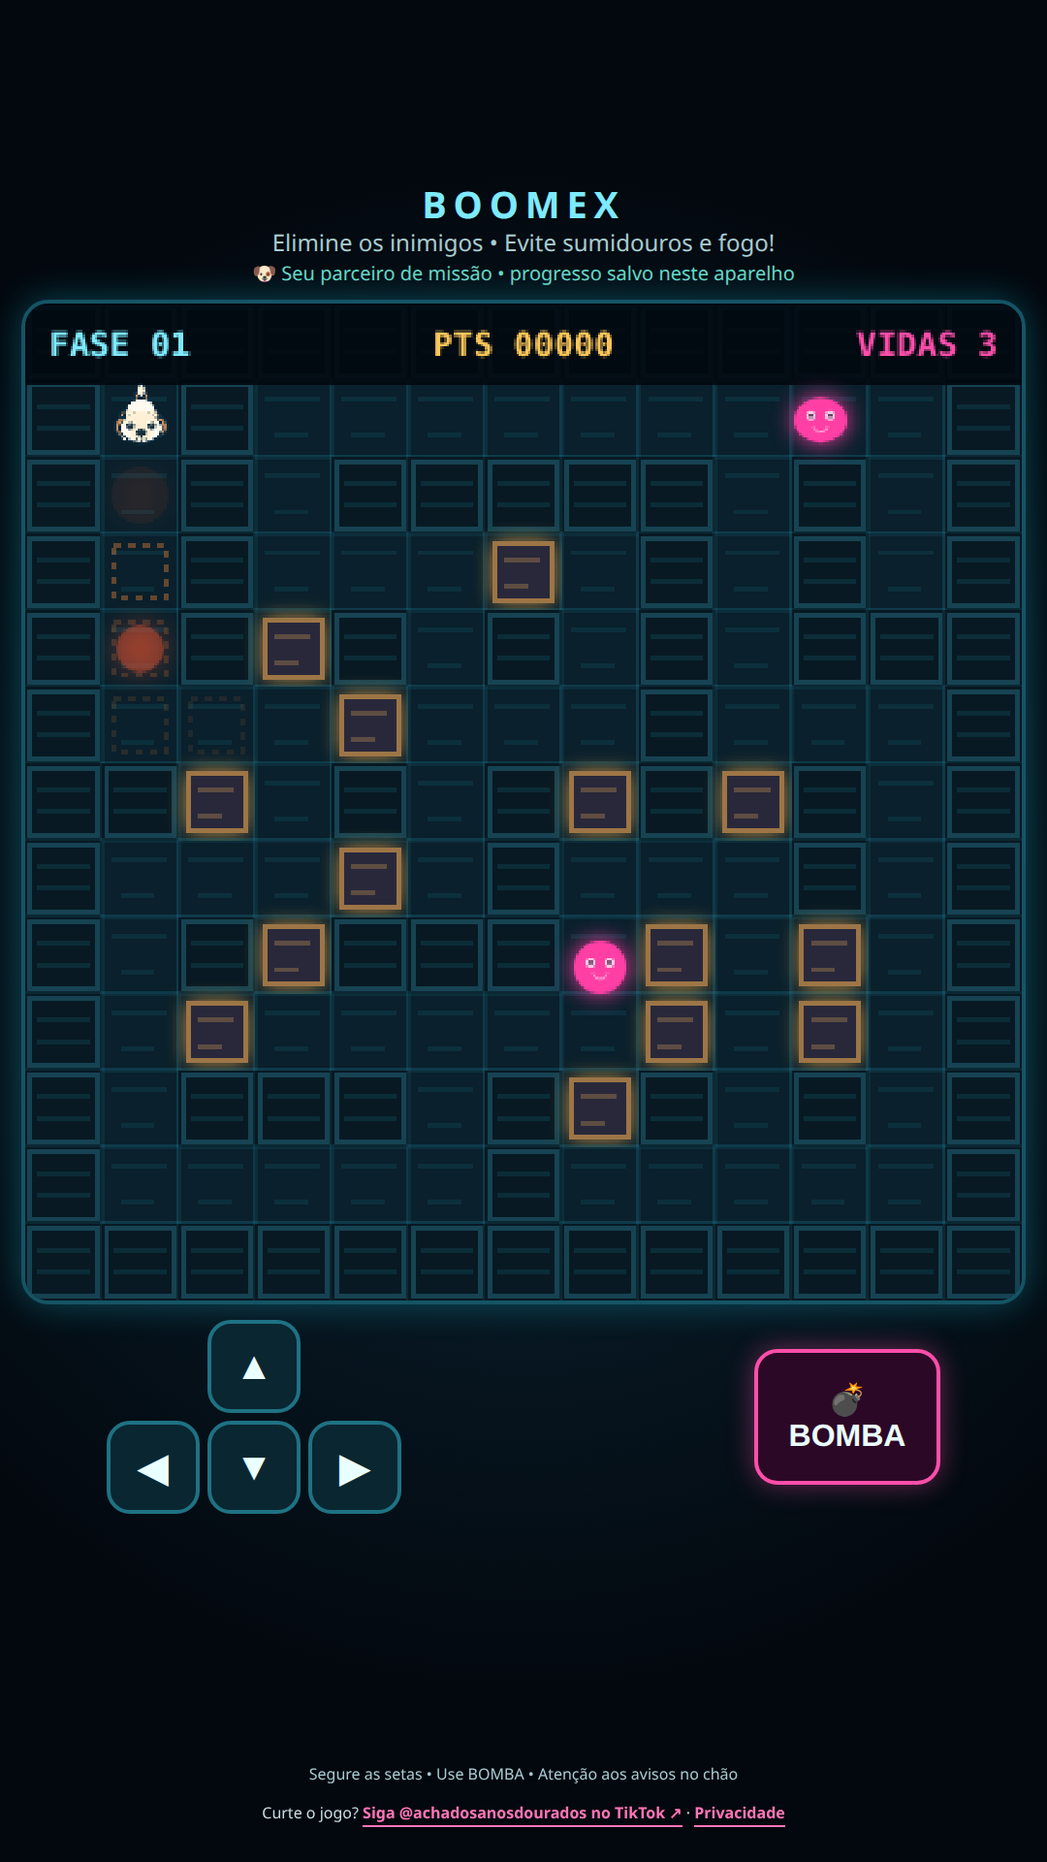
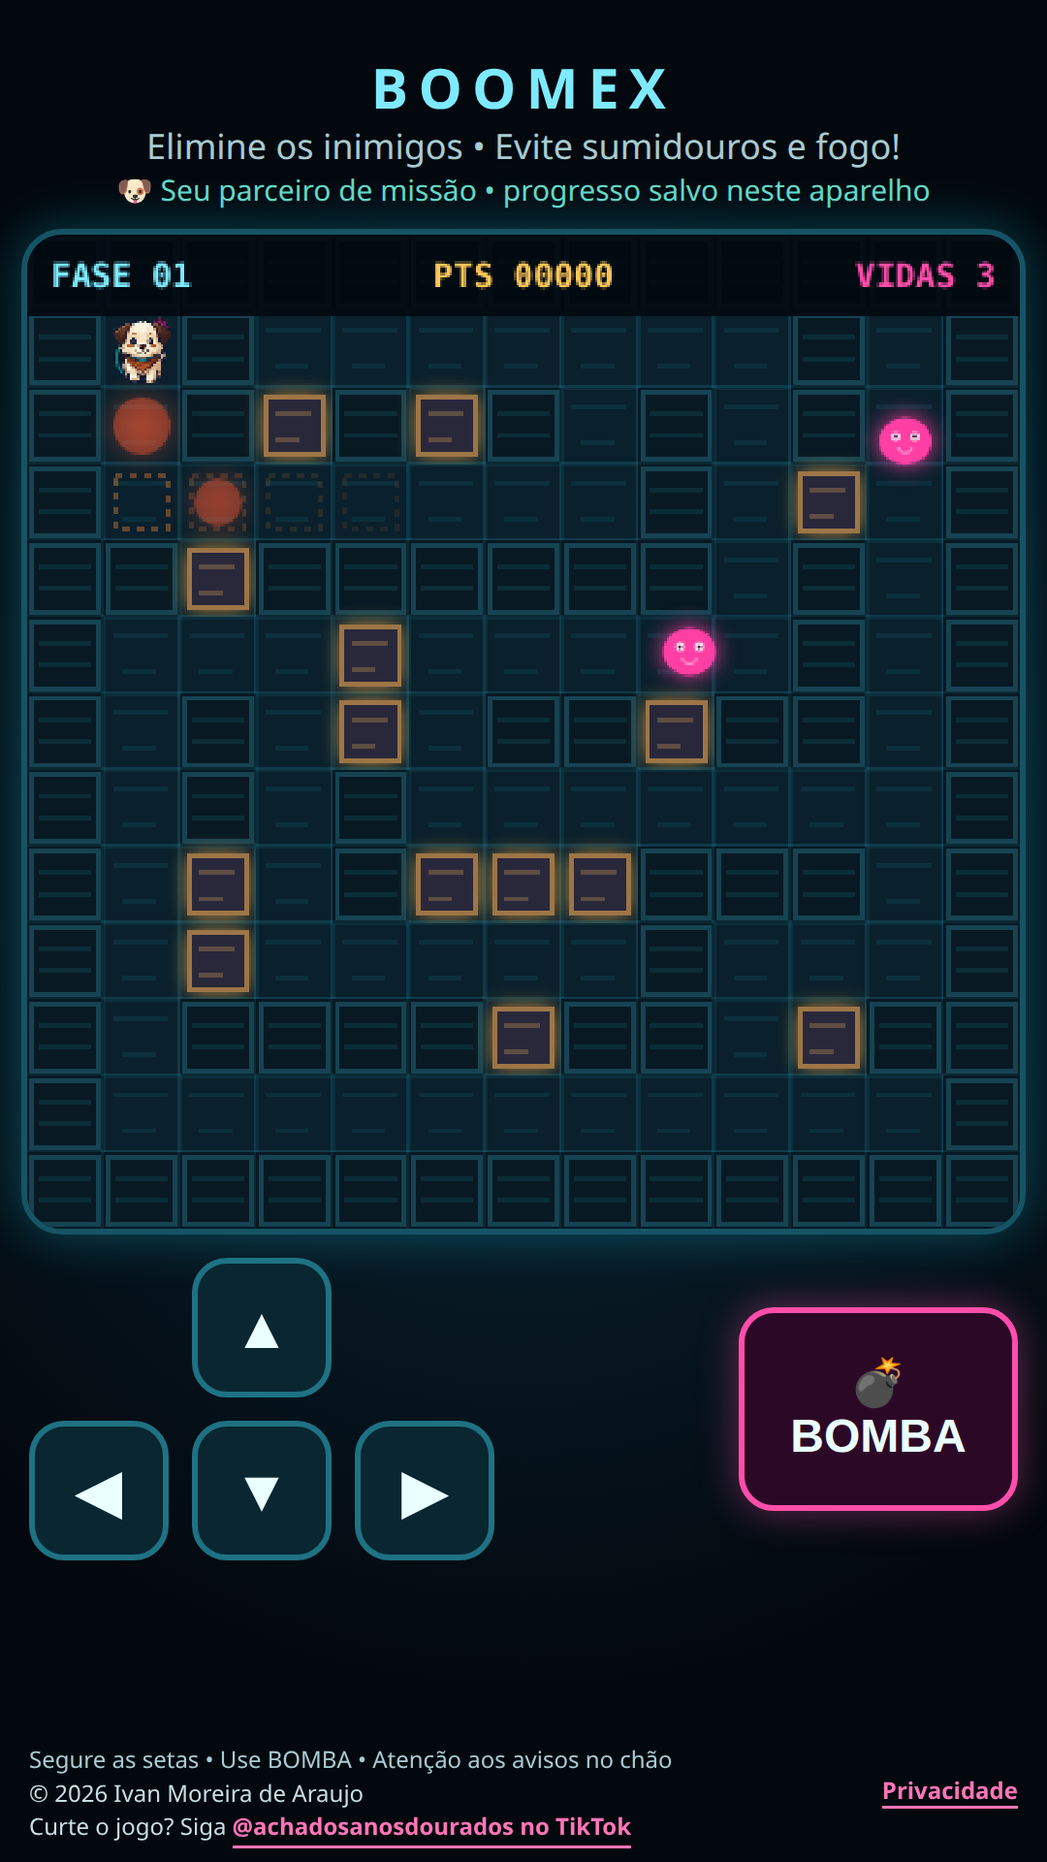
Prepare BOOMEX v0.3 for Play Store (#4)

diff --git a/privacy-policy.html b/privacy-policy.html
@@ -4,39 +4,38 @@
   <meta charset="utf-8">
   <meta name="viewport" content="width=device-width, initial-scale=1">
   <meta name="theme-color" content="#06131d">
-  <title>Política de Privacidade — BOOMEX v0.3</title>
+  <meta name="description" content="Política de privacidade do BOOMEX, jogo arcade para Android e web.">
+  <link rel="canonical" href="https://boomex-web.vercel.app/privacy-policy.html">
+  <title>Política de Privacidade — BOOMEX</title>
   <style>
     :root{color-scheme:dark;font-family:system-ui,sans-serif;background:#03080e;color:#d5f8ff}
     body{margin:0;padding:24px 18px 40px;background:radial-gradient(circle at top,#0b2635,#03080e 72%);line-height:1.6}
     main{max-width:720px;margin:0 auto}
     h1,h2{color:#7eeaff;line-height:1.25}h1{font-size:1.6rem}h2{font-size:1.08rem;margin-top:1.8rem}
-    p,li{color:#d1e1e6}.draft{padding:12px;border:1px solid #ffbd4a;border-radius:8px;background:#2a210e;color:#ffe2a0}
-    a{color:#ff75b7}
+    p,li{color:#d1e1e6}a{color:#ff75b7}
   </style>
 </head>
 <body>
 <main>
   <h1>Política de Privacidade do BOOMEX</h1>
-  <p class="draft"><strong>Prévia v0.3:</strong> esta página está disponível para revisar dentro do preview de teste. Antes de publicar o aplicativo, o responsável deverá hospedá-la em uma URL HTTPS permanente e confirmar que continua refletindo exatamente a versão enviada à loja.</p>
+  <p><strong>Versão do app:</strong> 0.3 · <strong>Atualizada em:</strong> 18 de novembro de 2026</p>
   <p><strong>Responsável:</strong> Ivan Moreira de Araújo, desenvolvedor do BOOMEX.</p>
-  <p><strong>Contato público de suporte e privacidade:</strong> <a href="mailto:ivanmoreira1001@gmail.com">ivanmoreira1001@gmail.com</a></p>
-  <p><strong>Público-alvo declarado:</strong> o BOOMEX não é direcionado a crianças menores de 13 anos.</p>
+  <p><strong>Contato de suporte e privacidade:</strong> <a href="mailto:ivanmoreira1001@gmail.com">ivanmoreira1001@gmail.com</a></p>
+  <p>Esta política descreve o BOOMEX Android v0.3 e a versão web do jogo. O BOOMEX não é direcionado a crianças menores de 13 anos.</p>
 
-  <h2>Quais informações o BOOMEX usa</h2>
-  <p>Na versão Android preparada neste projeto, o jogo não exige cadastro, não usa publicidade nem ferramentas de análise, e não envia para o desenvolvedor o progresso, a pontuação ou outros dados do jogo. O progresso pode ser guardado localmente no armazenamento do aplicativo, no próprio aparelho, para permitir continuar a campanha.</p>
+  <h2>Dados do jogo no aparelho</h2>
+  <p>O BOOMEX não exige cadastro, não solicita nome, e-mail, localização ou outros dados pessoais para jogar e não usa anúncios ou ferramentas de análise. A pontuação recorde, as fases desbloqueadas, partidas jogadas e o estado da campanha podem ser armazenados localmente no aparelho ou navegador para salvar o progresso. Esses dados não são enviados aos servidores do desenvolvedor.</p>
 
-  <h2>Como apagar o progresso</h2>
-  <p>O progresso local pode ser removido apagando os dados/armazenamento do BOOMEX nas configurações do Android ou desinstalando o aplicativo. O BOOMEX não oferece sincronização de progresso entre dispositivos.</p>
+  <h2>Conexões e serviços externos</h2>
+  <p>O pacote Android inclui os arquivos do jogo localmente e remove o SDK remoto do Telegram. A permissão de internet do Android é necessária ao WebView e ao link externo opcional; o jogo e o progresso não dependem de um servidor do BOOMEX para funcionar.</p>
+  <p>Na versão web aberta dentro do Telegram, a página carrega o SDK Web Apps oficial do Telegram e o jogo usa somente as chamadas de inicialização e expansão da tela. O Telegram pode tratar dados técnicos da conexão e dados da sessão conforme suas próprias regras; o BOOMEX não recebe nem armazena dados de perfil do Telegram.</p>
+  <p>Há um link opcional para o perfil @achadosanosdourados no TikTok. Se você tocar nele, o TikTok ou o navegador poderá receber dados técnicos da conexão e tratar informações conforme as políticas próprias do serviço. O BOOMEX não controla esse tratamento externo.</p>
 
-  <h2>Link opcional para o TikTok</h2>
-  <p>O jogo oferece um link opcional para o perfil @achadosanosdourados no TikTok. Se você tocar nele, o serviço/site do TikTok poderá receber dados técnicos da conexão e tratar dados conforme as próprias políticas e configurações de privacidade. O BOOMEX não controla esse tratamento externo; consulte as informações do TikTok antes de usar o serviço.</p>
-
-  <h2>Permissões, anúncios e contas</h2>
-  <p>A versão Android não oferece criação de conta, não exibe anúncios e não inclui sincronização online do jogo. A permissão de internet existe para o WebView e para o link externo opcional; o jogo em si foi preparado para iniciar e funcionar sem conexão.</p>
+  <h2>Apagar o progresso</h2>
+  <p>Não mantemos progresso em servidor. Para apagá-lo, limpe os dados/armazenamento do BOOMEX nas configurações do Android ou desinstale o app. Na versão web, limpe os dados do site no navegador. O jogo não oferece sincronização entre dispositivos.</p>
 
   <h2>Alterações e dúvidas</h2>
-  <p>Se o comportamento do aplicativo mudar, esta política e as declarações de privacidade da loja deverão ser atualizadas. Para dúvidas sobre privacidade ou para solicitar ajuda com dados locais, escreva para <a href="mailto:ivanmoreira1001@gmail.com">ivanmoreira1001@gmail.com</a>.</p>
-  <p><small>Rascunho técnico do candidato BOOMEX v0.3. Revisado em 17 de novembro de 2026.</small></p>
+  <p>Se o app passar a usar novos dados, SDKs, anúncios ou serviços, esta política será atualizada antes de a mudança ser disponibilizada. Para dúvidas ou solicitações relacionadas à privacidade, escreva para <a href="mailto:ivanmoreira1001@gmail.com">ivanmoreira1001@gmail.com</a>.</p>
 </main>
 </body>
 </html>

diff --git a/README.md b/README.md
@@ -1,41 +1,56 @@
-# BOOMEX v0.3 — validação Telegram e Android
+# BOOMEX v0.3 — preparação Android e Play Store
 
-Esta branch (`cue/android-validation-20261116`) é isolada: `main` e o jogo em produção permanecem intactos. A versão v0.3 mantém o tabuleiro, o canvas, os controles e as mecânicas existentes; só troca o sprite do cão e a imagem da bomba por arte nova, e identifica a versão no título/metadata.
+## Estado desta preparação
 
-## Escolhas confirmadas
+A preparação está isolada na branch `cue/boomex-playstore-prep-20261118`, baseada no commit público `aff27278d4866855c3ea03b54ecf42594f56fb23`. O jogo mantém o tabuleiro original, as setas em cruz, o botão BOMBA e o crédito aprovado. Nenhuma alteração de mecânica ou tamanho de tabuleiro foi feita nesta etapa.
 
-- Nome: BOOMEX; `versionName` Android: `0.3`; `versionCode`: `3`; versão do pacote npm: `0.3.0`.
-- ID candidato: `com.ivan419419.boomex`; APK de teste usa o sufixo `.preview`.
-- Ícone A aprovado, reconstruído a partir da nova mascote; o gráfico promocional 1024×500 aprovado foi mantido.
-- A versão não é direcionada a menores de 13 anos.
-- Contato público de suporte/privacidade: `ivanmoreira1001@gmail.com`.
-- Os sprites de procedência incerta foram substituídos por assets originais gerados para esta versão; o código de gameplay e os controles não foram alterados.
+Antes de começar, foi confirmado no GitHub o backup do estado público: a branch `backup/boomex-public-before-playstore-20261118` e a tag `backup-boomex-public-before-playstore-20261118` apontam ambas para `aff27278d4866855c3ea03b54ecf42594f56fb23`. A branch `main` também estava nesse SHA na verificação.
 
-## Ordem desta rodada
+A página inicial `https://boomex-web.vercel.app/` abre sem login. O rodapé já inclui o link “Privacidade”. O texto final da política está em `privacy-policy.html` e usa a URL permanente `https://boomex-web.vercel.app/privacy-policy.html`; a atualização do conteúdo público dessa página só deve ocorrer depois da validação e publicação desta branch.
 
-1. `npm run build:telegram-preview` cria `telegram-preview/` com somente HTML, scripts de runtime, política e as imagens necessárias. O SDK Telegram continua ativo, para que o link HTTPS possa ser aberto no webview do Telegram.
-2. O preview é testado no Telegram primeiro. Nenhum APK v0.3 será entregue como aprovado antes desse teste.
-3. Depois do retorno do teste no Telegram, gerar o APK de depuração para o aparelho Android e, se solicitado/necessário, o AAB de validação. Não há publicação automática.
+## O que está preparado
 
-O diretório temporário `telegram-preview/` é ignorado pelo Git e o servidor HTTP deve apontar somente para ele. Ele não contém o keystore, credenciais, APK/AAB nem fontes de build.
+- **Android:** Capacitor 8.6.2; ID candidato `com.ivan419419.boomex`; versão `0.3` / `versionCode 3`; `minSdk 24`; `targetSdk 36`.
+- **Pacote Android:** o jogo, JavaScript e artes ficam no pacote local. O build Android não inclui o SDK remoto do Telegram; não é necessário estar dentro do Telegram para jogar no app.
+- **Jogo offline:** `artifacts/boomex-offline.html` é um arquivo único com as artes incorporadas. O progresso é mantido localmente no aparelho/navegador.
+- **Arte da loja:** ícone A em `assets/store/boomex-icon-512-playstore.png` (512×512); gráfico panorâmico aprovado em `assets/store/boomex-feature-graphic-1024x500.png` (1024×500); duas capturas atuais em `assets/store/screenshots/`.
+- **Ficha:** texto em `assets/store/listing-copy-pt-BR.md`; rascunho de Data safety em `assets/store/data-safety-draft-pt-BR.md`; procedência das artes em `assets/store/asset-provenance-v0.3.md`.
+- **Contato público de suporte e privacidade:** `ivanmoreira1001@gmail.com`.
+- **Público conforme escolha do proprietário:** não direcionado a menores de 13 anos. As faixas etárias exatas ainda devem ser escolhidas no formulário do Play Console.
 
-## Estado da loja
+As artes do cachorro, da bomba, do ícone e do gráfico foram criadas especificamente para o BOOMEX. O registro de procedência reduz o uso de assets sem origem conhecida, mas não é uma garantia jurídica de exclusividade ou de ausência de semelhança não intencional.
 
-A política local agora mostra o contato e o público escolhidos, mas ainda precisa de uma URL HTTPS permanente antes do envio à loja. O ID não foi conferido na Play Console. As declarações de conteúdo, privacidade/Data safety e classificação etária precisam ser preenchidas na conta do desenvolvedor com base no app final. Nenhuma conta foi criada, taxa paga, build enviada ou publicação feita.
+## Validação e AAB
 
-## Verificações
+- `npm test`: **11 testes passaram; 0 falharam**.
+- O AAB foi produzido e validado estruturalmente pelo bundletool. Manifesto confirmado dentro do pacote: `com.ivan419419.boomex`, versão `0.3`, `versionCode 3`, `targetSdk 36`, `minSdk 24`.
[1 lines of base64/hex data omitted]
+- **O AAB está sem assinatura.** Nenhuma chave de assinatura foi carregada ou usada nesta build. O arquivo é para inspeção técnica e não pode ser enviado à Play Console até o proprietário decidir e aplicar uma chave de upload válida.
+- O HTML offline tem imagens embutidas e não carrega o SDK remoto do Telegram.
 
-`npm test` cobre 11 testes automatizados de mapa, movimento/colisão, progresso local e campanha. O pacote Android usa `minSdk` 24 e `targetSdk` 36. Antes do APK final desta rodada, também será necessário conferir o preview no aparelho físico; o usuário quer validar primeiro dentro do Telegram.
-
-## Comandos
+Comandos locais usados para validar:
 
 ```bash
-npm install
+npm ci
 npm test
-npm run build:telegram-preview
 npm run build:offline
-npm run build:android:debug
-npm run build:android:release
+npm run build:android:unsigned
 ```
 
-A chave de upload e suas credenciais permanecem em `artifacts/` no ambiente local, ignoradas pelo Git. Faça cópia segura se for necessário manter uma futura assinatura de release; nunca as envie ao repositório.
+## O que ainda depende do proprietário
+
+1. Criar e configurar a conta Play Console com `ivanmoreira1001@gmail.com`, concluir as verificações exigidas e pagar a taxa de cadastro. Nada foi cadastrado, pago ou enviado nesta preparação.
+2. Conferir na Play Console se `com.ivan419419.boomex` está disponível; a disponibilidade não pode ser garantida sem criar a ficha.
+3. Escolher e proteger uma chave de upload para assinar a versão final. Nenhuma chave foi criada ou usada nesta preparação; o AAB entregue está sem assinatura.
+4. Revisar e preencher Data safety, público/faixas etárias, classificação IARC e declaração de anúncios. Os arquivos desta branch são rascunhos e não substituem as respostas do proprietário na Console.
+5. Instalar e testar em aparelho Android o pacote final assinado. A aprovação de alvo API foi configurada em `36`, o mínimo exigido para novos apps a partir de 31 de agosto de 2026.
+6. Se a conta pessoal for criada agora, concluir o teste fechado com pelo menos 12 testadores inscritos por 14 dias consecutivos e, depois, solicitar acesso à produção.
+
+Nenhum app foi criado ou enviado no Play Console, nenhuma publicação na Play Store foi feita e nenhum pagamento foi realizado.
+
+## Fontes oficiais do Google Play
+
+- [Requisitos de nível desejado da API](https://support.google.com/googleplay/android-developer/answer/11926878?hl=pt-BR)
+- [Requisitos de teste para novas contas pessoais](https://support.google.com/googleplay/android-developer/answer/14151465?hl=pt-BR)
+- [Como começar a usar o Play Console](https://support.google.com/googleplay/android-developer/answer/6112435?hl=pt-BR)
+- [Política de privacidade e Data safety](https://support.google.com/googleplay/android-developer/answer/9859455?hl=pt-BR)

diff --git a/assets/store/listing-copy-pt-BR.md b/assets/store/listing-copy-pt-BR.md
@@ -1,31 +1,48 @@
-# Texto candidato da ficha — BOOMEX v0.3 (pt-BR)
+# Rascunho da ficha Google Play — BOOMEX v0.3
 
-**Status:** rascunho para revisão; nada foi enviado à Google Play.
+**Status:** preparado para revisão; não foi criado app na Play Console e nada foi enviado à loja.
 
-**Nome do app (24/30 caracteres):** BOOMEX: Labirinto Arcade
+## Texto da ficha
 
-**Descrição curta (75/80 caracteres):** Use bombas, desvie de inimigos e atravesse labirintos em um arcade offline.
+**Nome sugerido (máximo 30 caracteres):** BOOMEX: Labirinto Arcade
+
+**Descrição curta (máximo 80 caracteres):** Atravesse labirintos, desvie de inimigos e use bombas neste arcade offline.
 
 **Descrição completa:**
 
-Um cão explorador, labirintos cheios de inimigos e decisões rápidas: em BOOMEX, mova-se com os controles na tela, escolha quando usar a bomba e sobreviva a cada fase.
+Explore labirintos, enfrente inimigos e escolha o momento certo de usar sua bomba. BOOMEX é um jogo arcade de ação fantasiosa com controles por toque e campanha para jogar no seu ritmo.
 
-**Destaques**
-- 25 fases de desafio progressivo.
-- Controles por toque para quatro direções.
-- Inimigos, blocos quebráveis e avisos de perigos no chão.
+- 25 fases com desafio progressivo.
+- Controles na tela para quatro direções.
+- Inimigos, blocos quebráveis e avisos de perigo no chão.
 - Recorde e progresso salvos localmente no aparelho.
-- A campanha pode ser jogada sem conexão com a internet.
+- A campanha pode ser jogada sem conexão; o link opcional para o TikTok abre um serviço externo.
 
-A versão candidata não exige cadastro, não exibe anúncios e não envia o progresso do jogo para um servidor. O jogo não é direcionado a crianças menores de 13 anos.
+Não é necessário criar uma conta. O jogo não exibe anúncios. O progresso permanece no aparelho e não é sincronizado com servidores do desenvolvedor.
 
-BOOMEX contém ação arcade fantasiosa, com bombas e explosões estilizadas; não representa violência real nem incentiva ações no mundo real. O link opcional para o TikTok só é aberto se você tocar nele.
+**E-mail público de suporte:** ivanmoreira1001@gmail.com
 
-**Contato de suporte:** ivanmoreira1001@gmail.com.
+**Política de privacidade:** https://boomex-web.vercel.app/privacy-policy.html
 
-## Campos ainda dependentes da Play Console
+**ID candidato:** `com.ivan419419.boomex` (disponibilidade ainda não conferida na Play Console).
 
-- Categoria sugerida: Jogos > Arcade (confirmar na Play Console).
-- Questionário oficial de classificação etária, público-alvo, Data safety e anúncios.
-- Confirmar a disponibilidade do ID `com.ivan419419.boomex` antes de criar a ficha.
-- Hospedar a política de privacidade em uma URL HTTPS permanente e testar o fluxo no aparelho.
+**Versão candidata:** 0.3 (versionCode 3).
+
+**Público:** conforme escolha do proprietário, não direcionado a menores de 13 anos.
+
+## Campos da Play Console a preencher pelo proprietário
+
+- Categoria sugerida: Jogos → Arcade; confirmar na Console.
+- Questionário de classificação etária IARC; a classificação não foi atribuída neste rascunho.
+- Público-alvo e conteúdo: usar a escolha do proprietário e selecionar as faixas etárias exatas que correspondem ao público real.
+- Declaração de anúncios: rascunho “não contém anúncios”, baseado no código revisado.
+- Data safety: usar o arquivo `data-safety-draft-pt-BR.md` como apoio, revisar SDKs e confirmar as respostas na Console.
+- Confirmar disponibilidade do nome de pacote e identidade do desenvolvedor na conta.
+
+## Materiais visuais existentes
+
+- Ícone aprovado A: `boomex-icon-512-playstore.png` (512×512, PNG RGBA).
+- Gráfico promocional aprovado: `boomex-feature-graphic-1024x500.png` (1024×500, RGB).
+- Capturas atuais do app: `screenshots/boomex-gameplay-01.png` e `screenshots/boomex-gameplay-02.png`.
+
+Fontes: [regras de ativos da ficha](https://support.google.com/googleplay/android-developer/answer/9866151?hl=pt-BR) · [privacidade e Data safety](https://support.google.com/googleplay/android-developer/answer/9859455?hl=pt-BR).

diff --git a/assets/store/data-safety-draft-pt-BR.md b/assets/store/data-safety-draft-pt-BR.md
@@ -1,0 +1,32 @@
+# Rascunho — Data safety do BOOMEX v0.3
+
+**Status:** material de preparação; nada foi preenchido ou enviado à Play Console. A declaração final é responsabilidade do proprietário e deve corresponder exatamente ao AAB enviado.
+
+## Base técnica revisada
+
+- O jogo salva pontuação recorde, progresso, número de partidas e campanha em `localStorage` no próprio aparelho. O código não envia esses dados para um servidor.
+- Não há conta, login, publicidade, compras no app, analytics ou SDK de anúncios no pacote Android revisado.
+- O build Android remove o script remoto do SDK Telegram e carrega HTML, JavaScript e sprites localmente.
+- O Manifesto declara `INTERNET`, necessária ao WebView/link externo, mas a permissão sozinha não demonstra coleta de dados. O jogo não depende de rede para jogar.
+- A página inclui um link opcional para TikTok. Ao tocá-lo, o serviço externo poderá tratar dados da conexão de acordo com suas próprias regras; não há SDK TikTok dentro do app.
+- Dependências Android identificadas: Capacitor 8.6.2, AndroidX e componentes padrão de plataforma; não foi identificada biblioteca de ads/analytics na configuração revisada.
+
+## Respostas preliminares para o formulário
+
+| Pergunta/declaração | Rascunho baseado no código | Confirmação necessária |
+|---|---|---|
+| O app coleta tipos de dados de usuário listados pelo Google? | **Provavelmente não**: os dados de progresso ficam no dispositivo e não são transmitidos pelo app. | Conferir o AAB final e SDKs transitivos; revisar o tratamento do link externo dentro do WebView. |
+| O app compartilha dados de usuário com terceiros? | **Nenhum compartilhamento pelo código do jogo foi identificado.** | Confirmar como o sistema abre o link TikTok e responder conforme as definições atuais do formulário. |
+| Dados em trânsito criptografados? | Se a resposta de coleta/compartilhamento for “não”, a pergunta condicional pode não se aplicar. | Não marcar “sim” sem mapear qualquer tráfego incluído no pacote. |
+| Há forma de excluir dados? | O progresso local pode ser removido limpando dados do app ou desinstalando; não há dados de conta em servidor. | Descrever no campo correspondente somente se o formulário pedir para dados coletados. |
+| O app contém anúncios? | **Não**, conforme código/configuração revisados. | Revalidar se qualquer SDK ou conteúdo de anúncio for acrescentado. |
+| Política pública de privacidade | `https://boomex-web.vercel.app/privacy-policy.html` | Testar a URL na Play Console e manter a página acessível sem login. |
+
+## Antes de enviar
+
+1. Revisar a lista final de dependências dentro do AAB e as políticas dos SDKs incluídos.
+2. Confirmar no dispositivo se o link do TikTok abre fora do app ou em WebView; atualizar a avaliação de dados se o comportamento mudar.
+3. Preencher o formulário no Play Console com base no artefato efetivamente enviado. O Google exige formulário também para apps em testes fechados/abertos; apps exclusivamente em teste interno são a exceção indicada na ajuda oficial.
+4. Não tratar este rascunho como declaração oficial: somente o proprietário conhece todo o tratamento de dados e deve confirmar cada resposta.
+
+Fontes oficiais: [Data safety](https://support.google.com/googleplay/android-developer/answer/10787469?hl=pt-BR) · [Política de dados do usuário](https://support.google.com/googleplay/android-developer/answer/10144311?hl=pt-BR) · [Política de privacidade](https://support.google.com/googleplay/android-developer/answer/9859455?hl=pt-BR).
